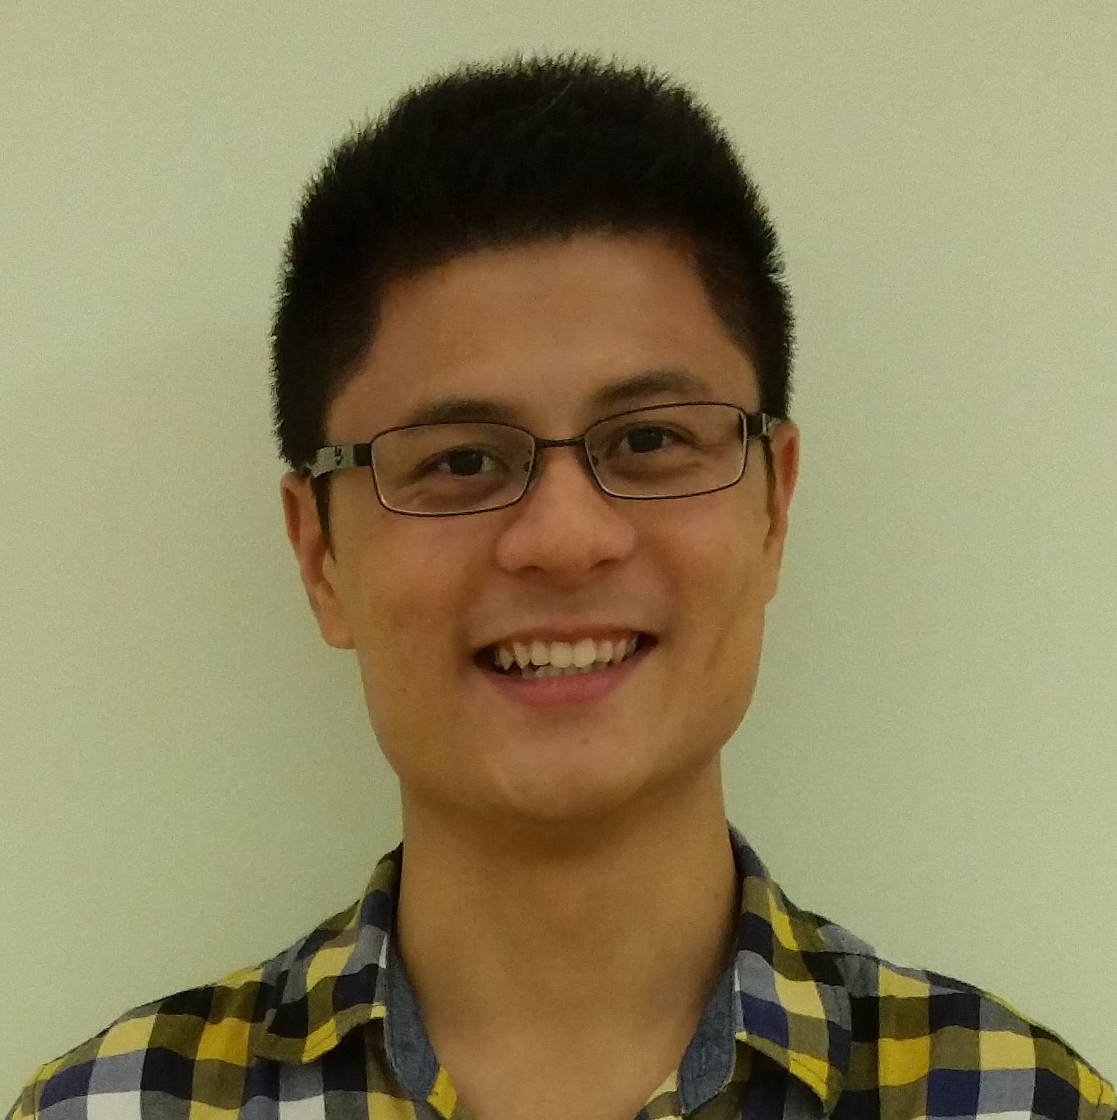
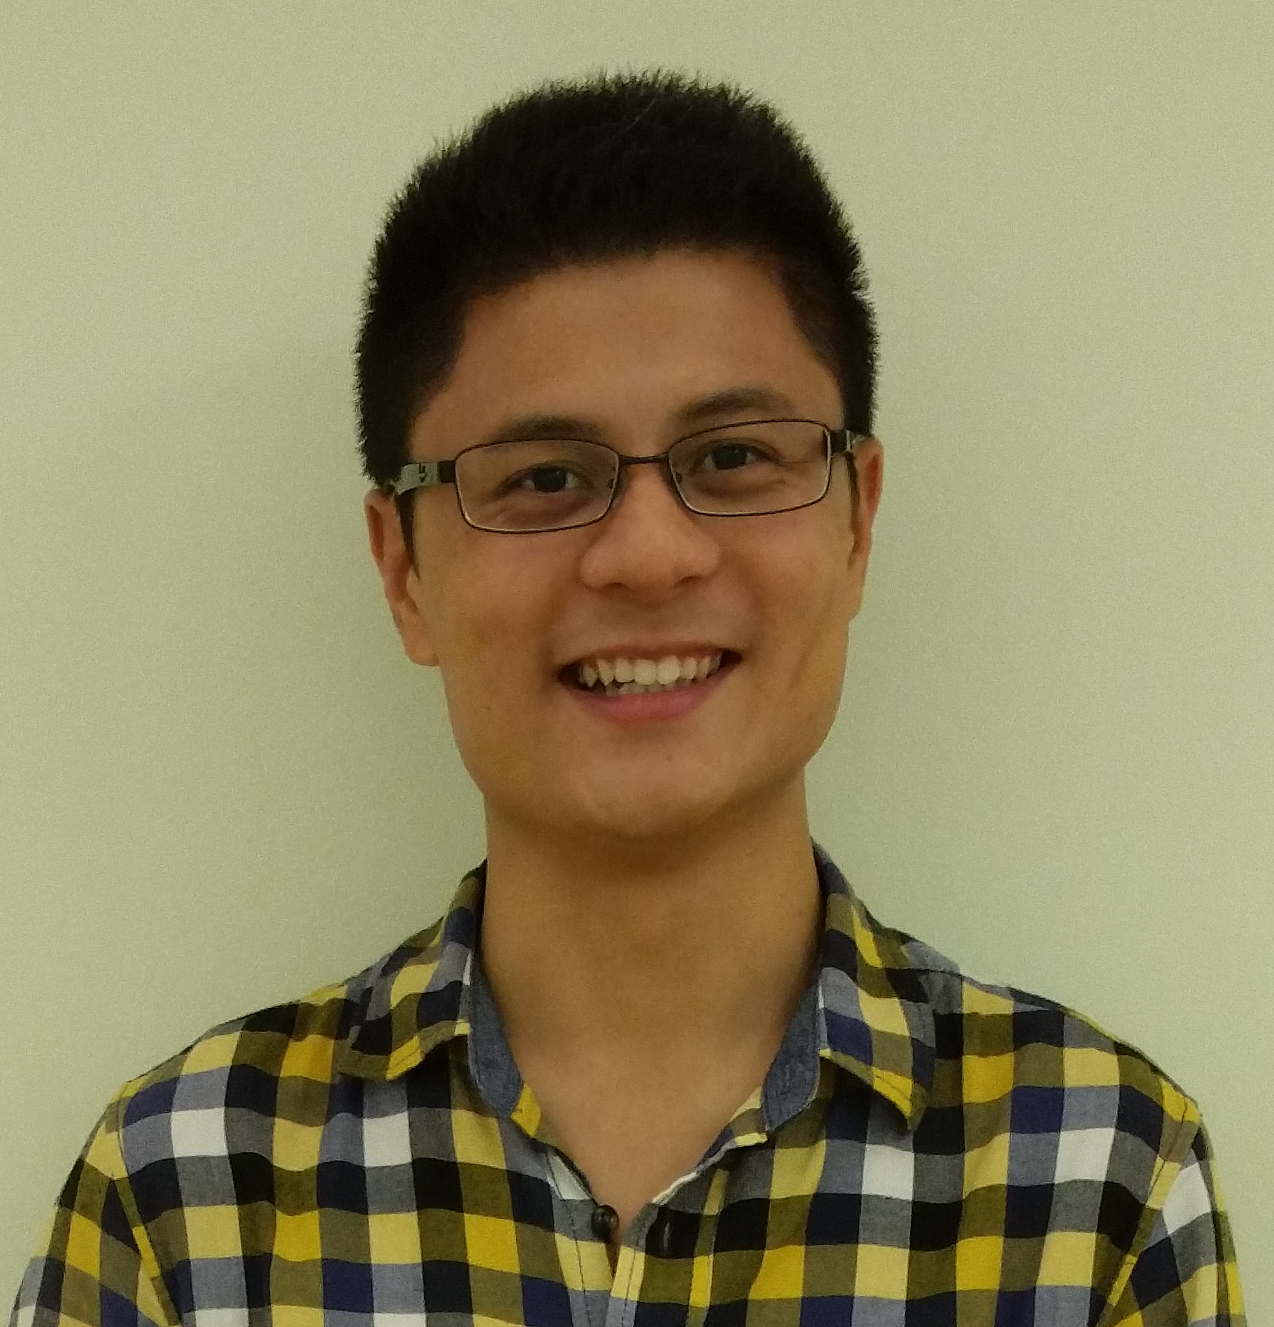
added more pictures

diff --git a/team_members.html b/team_members.html
@@ -195,7 +195,7 @@
                          <h4>Junior Developer</h4>
                      </div>
                      <div class="col-md-4 position-icon description-div">
-                         <img style="width:275px;height:275px;"src="img/team_pictures/default-picture.png" alt="Mohamed Ali">
+                         <img style="width:275px;height:275px;"src="img/team_pictures/mohamed.png" alt="Mohamed Ali">
                          <h3 class="position-title">Mohamed Ali</h3>
                          <h4>Junior Developer</h4>
                      </div>
@@ -318,7 +318,7 @@
                          <h4>Junior Developer</h4>
                      </div> 
                      <div class="col-md-4 position-icon description-div">
-                         <img style="width:275px;height:275px;"src="img/team_pictures/default-picture.png" alt="Parynaz Adamy">
+                         <img style="width:275px;height:275px;"src="img/team_pictures/parynaz.png" alt="Parynaz Adamy">
                          <h3 class="position-title">Parynaz Adamy</h3>
                          <h4>Junior Developer</h4>
                      </div>  
